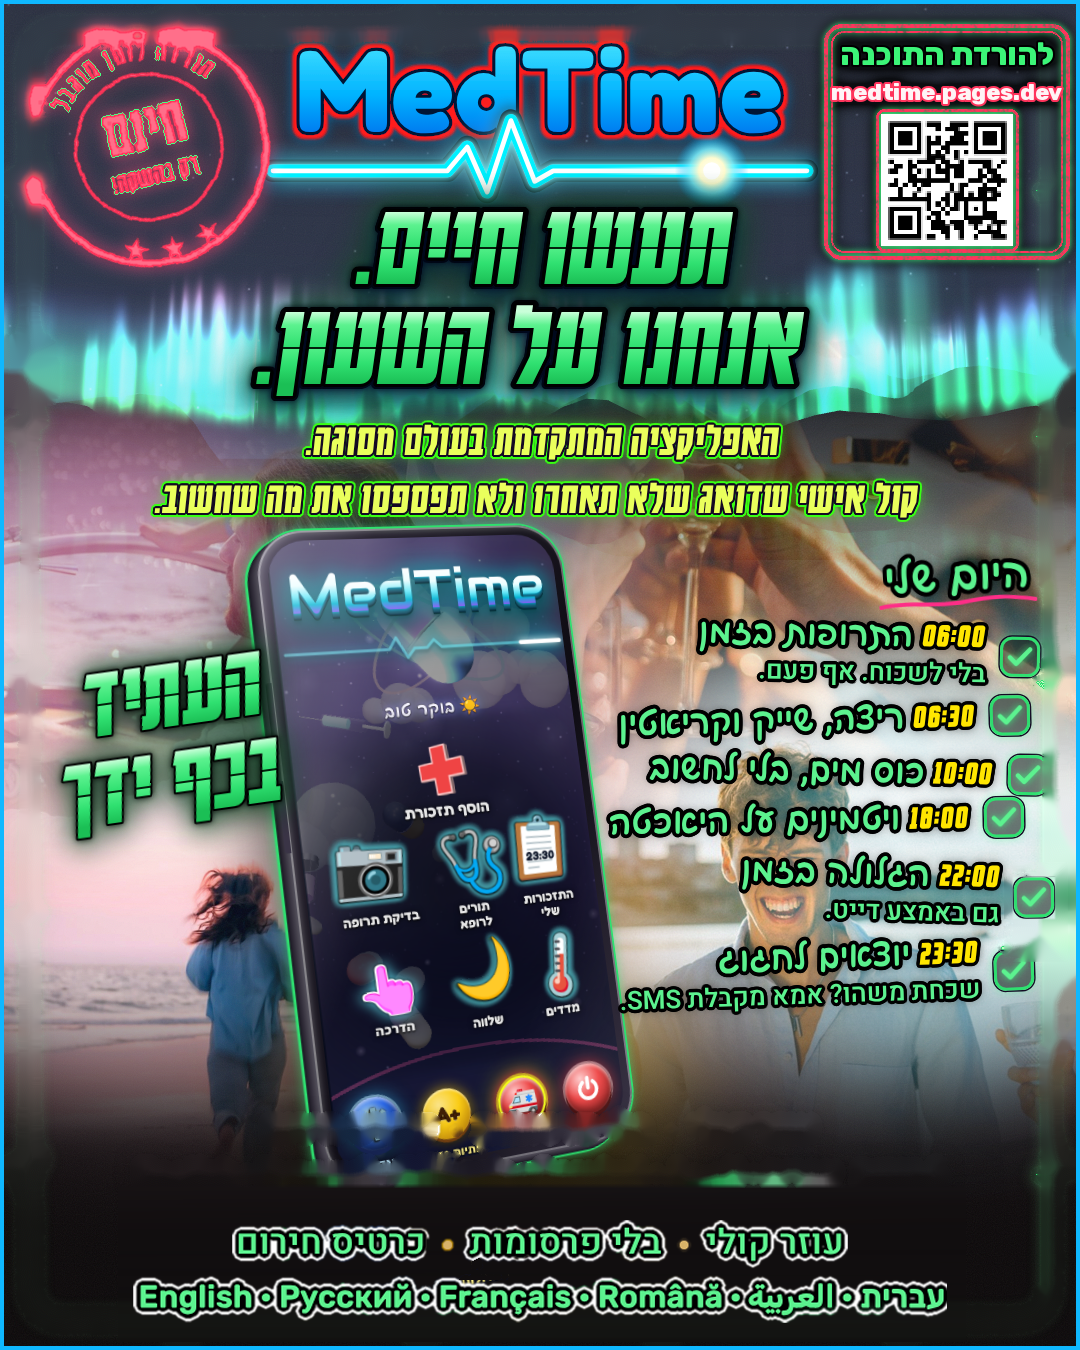
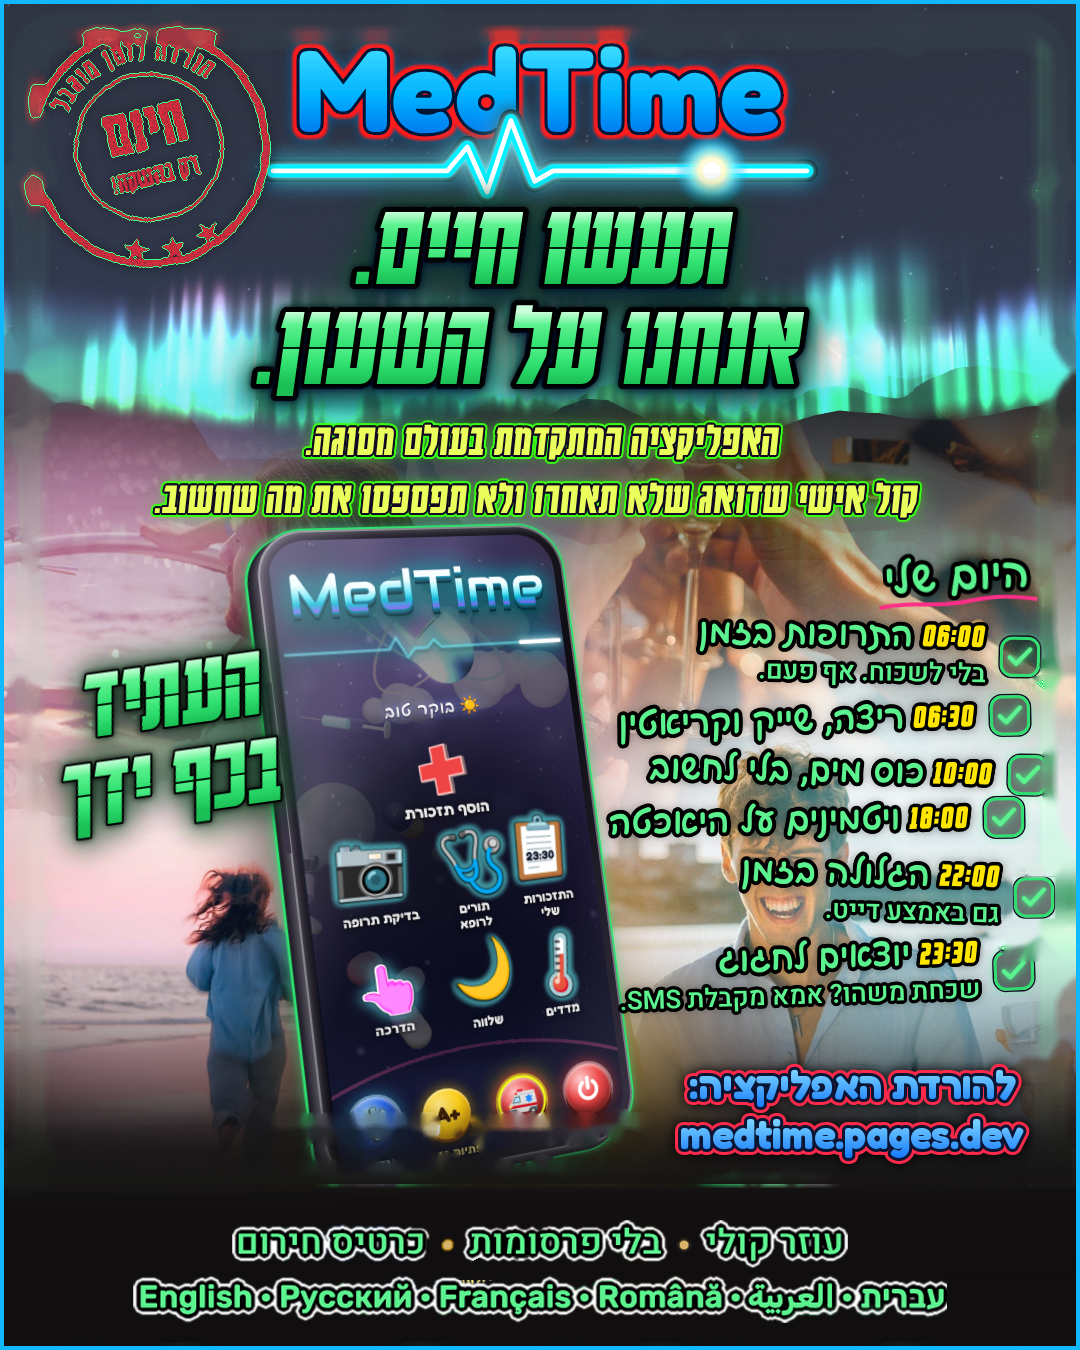
Ad round 8: bottom-right address in title style, no QR stamp, stamp outline, gradual dark fade [skip ci]
Account: main · thread 'MedTime – שיחה חדשה'

Claude-Session: https://claude.ai/code/session_01VsxPbo6X9KYMbXyBhgnXSS

diff --git a/media/ads/src/premium_fix7.py b/media/ads/src/premium_fix7.py
@@ -1,0 +1,161 @@
+# Round 8 (Roni 14:29): no download stamp; bottom-right text 'להורדת האפליקציה:' + address in the
+# title's look (rounded bold, blue, red edge), no QR; red stamp without the big glow, thin green line
+# round all its letters and shapes; the dark bottom fades in gradually.
+# Order: premium_fix6.py (round-1 image) -> this script (premium_fix7.py).
+# Round 5 (Roni 14:13): download stamp: green bold 'להורדת התוכנה', address in ONE line,
+# thin green halo; red round stamp letters get a thin green outline. Otherwise = round 3.
+# Round 3 (Roni 14:04): download stamp moves to the top-right, opposite the red stamp,
+# bigger clearer address (2 lines), no tilt; the red stamp also gets a neon glow.
+# Same as round 2 otherwise. Run on the ROUND-1 image (cdddeed), not on round 2.
+# Round 2 on media/ads/MedTime-ad-premium.png (Roni 2026-10-23 ~14:00):
+# - remove the bottom URL pill + QR, remove "6 שפות", move the language row down (more room)
+# - under the red stamp: "להורדת התוכנה" + medtime.pages.dev + the same QR, stamp style, neon
+# Run: python3 premium_fix2.py CUR.png ORIG_ddc63a0.png FONTDIR OUT.png
+import sys, numpy as np, cv2
+from scipy import ndimage as nd
+from PIL import Image, ImageDraw, ImageFont
+cur_p, orig_p, fd, out = sys.argv[1:5]
+img = np.array(Image.open(cur_p).convert('RGB')).astype(np.float32)
+org = np.array(Image.open(orig_p).convert('RGB')).astype(int)
+H, W = img.shape[:2]
+def disk(n):
+    y, x = np.ogrid[-n:n+1, -n:n+1]; return x*x + y*y <= n*n
+def over(base, col, al):
+    return base*(1-al[..., None]) + np.array(col, np.float32)*al[..., None]
+def inpaint(im, m):
+    u = np.clip(im, 0, 255).astype(np.uint8)
+    return cv2.inpaint(u, m.astype(np.uint8)*255, 7, cv2.INPAINT_TELEA).astype(np.float32)
+
+# QR image from the original (unchanged modules)
+qr = org[1194:1290, 706:802].astype(np.float32)
+
+# language row mask (same as fix1) -> letters + white ring
+a = org
+row = np.zeros((H, W), bool); row[1155:1194, 90:1000] = True
+txt = (np.abs(a - [92, 242, 143]).sum(2) < 60) & row
+tl, tn = nd.label(txt, np.ones((3, 3))); ts = nd.sum(txt, tl, range(1, tn+1))
+txt = np.isin(tl, np.nonzero(ts >= 6)[0] + 1)
+six = np.zeros((H, W), bool); six[1150:1198, 840:960] = True   # "6 שפות" (yellow)
+lang = nd.binary_dilation(txt, disk(4)); lang = nd.binary_dilation(lang, disk(3))
+dots = np.zeros((H, W), bool)
+# bullets between languages are gold dots inside the row: keep them
+gold = (np.abs(a - [205, 170, 110]).sum(2) < 90) & row & ~six
+dots = nd.binary_dilation(gold, disk(2))
+keep = (lang | dots) & ~six
+c0_ = img.astype(int)
+ok0 = (c0_.max(2) < 70) | (c0_.min(2) > 200) | (np.abs(c0_ - [92, 242, 143]).sum(2) < 120) | dots
+warm0 = ((c0_[..., 0] - c0_[..., 2]) > 30) & ~dots
+keep = keep & ~nd.binary_dilation(warm0, disk(1))      # leave out the phone's label text under the row
+ys, xs = np.nonzero(keep); bx0, bx1, by0, by1 = xs.min(), xs.max()+1, ys.min(), ys.max()+1
+rowimg = img[by0:by1, bx0:bx1].copy()
+rowal = cv2.GaussianBlur(keep[by0:by1, bx0:bx1].astype(np.float32), (3, 3), 0)
+# row 1 ("עוזר קולי • בלי פרסומות • כרטיס חירום"): same way (round 7: both rows go lower, closer)
+row1 = np.zeros((H, W), bool); row1[1108:1155, 90:1000] = True
+t1m = (np.abs(a - [92, 242, 143]).sum(2) < 60) & row1
+l1, n1 = nd.label(t1m, np.ones((3, 3))); s1 = nd.sum(t1m, l1, range(1, n1+1))
+t1m = np.isin(l1, np.nonzero(s1 >= 6)[0] + 1)
+lang1 = nd.binary_dilation(nd.binary_dilation(t1m, disk(4)), disk(3))
+gold1 = (np.abs(a - [205, 170, 110]).sum(2) < 90) & row1 & (a[..., 1] < 200)
+gold1 &= nd.binary_dilation(lang1, disk(25)) & ~nd.binary_dilation(lang1, disk(0))
+gl1, gn1 = nd.label(gold1, np.ones((3, 3)))
+dotm = np.zeros_like(gold1)
+for i, sl in enumerate(nd.find_objects(gl1)):   # bullet dots only: small and round
+    if sl is not None and (sl[0].stop - sl[0].start) <= 12 and (sl[1].stop - sl[1].start) <= 12 and (gl1[sl] == i+1).sum() >= 15:
+        dotm[sl] |= gl1[sl] == i + 1
+d1 = nd.binary_dilation(dotm, disk(2))
+keep1 = lang1 | d1
+ys, xs = np.nonzero(keep1); cx0, cx1, cy0, cy1 = xs.min(), xs.max()+1, ys.min(), ys.max()+1
+row1img = img[cy0:cy1, cx0:cx1].copy()
+ylab = (a[..., 0] > 140) & (a[..., 1] > 110) & (a[..., 2] < 110) & ~d1      # phone label text under the row: leave out
+cur_ = img.astype(int)
+okpx = (cur_.max(2) < 70) | (cur_.min(2) > 200) | (np.abs(cur_ - [92, 242, 143]).sum(2) < 120) | d1
+warm1 = ((cur_[..., 0] - cur_[..., 2]) > 30) & ~d1
+keep1 = keep1 & ~nd.binary_dilation(warm1, disk(1))
+row1al = cv2.GaussianBlur(keep1[cy0:cy1, cx0:cx1].astype(np.float32), (3, 3), 0)
+
+# frame pixels to protect
+ci = img.astype(int); g, r, b_ = ci[..., 1], ci[..., 0], ci[..., 2]
+fmk = ((g > 150) & (g - r > 40) & (g - b_ > 20)) | ((g > 235) & (r > 120) & (g - r > 30))
+lb, nl = nd.label(fmk, np.ones((3, 3)))
+frame = np.zeros((H, W), bool)   # old frame already removed by premium_fix6.py
+
+# clear 2: old language row letters + "6 שפות" (thin shapes -> inpaint)
+sixm = six & nd.binary_dilation(np.abs(a - [255, 213, 74]).sum(2) < 60, disk(8))
+clr = nd.binary_dilation(lang | dots | sixm | keep1, disk(2))
+img = inpaint(img, clr & ~frame)
+
+# clear 1: the pill/QR band -> per-row blend of the background just left/right of it
+X0, X1, Y0, Y1 = 8, 1072, 1184, 1342
+lc = img[Y0:Y1, X0-3:X0+2].mean(1); rc = img[Y0:Y1, X1-2:X1+3].mean(1)
+t = np.linspace(0, 1, X1-X0)[None, :, None]
+fill = lc[:, None]*(1-t) + rc[:, None]*t
+fill = cv2.GaussianBlur(fill, (0, 0), 2)
+fm = ~frame[Y0:Y1, X0:X1]
+ramp = np.clip((np.arange(Y1-Y0) + 1) / 5.0, 0, 1)[:, None, None]  # soft top edge
+blk = img[Y0:Y1, X0:X1]; new = blk*(1-ramp) + fill*ramp
+blk[fm] = new[fm]; img[Y0:Y1, X0:X1] = blk
+# gradual fade from the picture into the dark bottom (no hard edge)
+F0 = 1096
+wv = (np.clip((np.arange(F0, Y0) - F0) / float(Y0 - F0), 0, 1) ** 1.5)[:, None, None]
+img[F0:Y0, X0:X1] = img[F0:Y0, X0:X1]*(1 - wv) + fill[0][None]*wv
+# paste language row, bigger, centred lower
+s = 1.15
+nw, nh = int((bx1-bx0)*s), int((by1-by0)*s)
+ri = cv2.resize(rowimg, (nw, nh), interpolation=cv2.INTER_CUBIC); ra = cv2.resize(rowal, (nw, nh))
+x0 = (W - nw)//2; y0 = 1298 - nh//2
+reg = img[y0:y0+nh, x0:x0+nw]; img[y0:y0+nh, x0:x0+nw] = reg*(1-ra[..., None]) + ri*ra[..., None]
+s1_ = 1.1
+nw1, nh1 = int((cx1-cx0)*s1_), int((cy1-cy0)*s1_)
+r1i = cv2.resize(row1img, (nw1, nh1), interpolation=cv2.INTER_CUBIC); r1a = cv2.resize(row1al, (nw1, nh1))
+x1_ = (W - nw1)//2; y1_ = y0 - 4 - nh1
+reg = img[y1_:y1_+nh1, x1_:x1_+nw1]; img[y1_:y1_+nh1, x1_:x1_+nw1] = reg*(1-r1a[..., None]) + r1i*r1a[..., None]
+
+# leftover phone label specks between the two rows -> background
+ci2 = img.astype(int); zone = np.zeros((H, W), bool); zone[y1_+nh1-14:y0+6, 300:800] = True
+spec = zone & ((ci2[..., 0] - ci2[..., 2]) > 25)
+spec = nd.binary_dilation(spec, disk(2)) & zone & ~((ci2.min(2) > 170))
+img[spec] = fill[np.clip(np.nonzero(spec)[0] - Y0, 0, Y1-Y0-1), np.clip(np.nonzero(spec)[1] - X0, 0, X1-X0-1)]
+
+# ---- download text, bottom right, in the title's look (no QR) ----
+fhe = ImageFont.truetype(fd + '/fredoka-hebrew-700-normal.ttf', 40)
+fla = ImageFont.truetype(fd + '/fredoka-latin-700-normal.ttf', 40)
+tl1, tl2 = 'להורדת האפליקציה', 'medtime.pages.dev'   # the ':' comes from the Latin font (not in the Hebrew one)
+cxT, yT1, yT2 = 852, 1060, 1110
+def tmask(t, f, y, sw, rtl):
+    L = Image.new('L', (W, H), 0); dd_ = ImageDraw.Draw(L)
+    w_ = dd_.textlength(t, font=f, direction='rtl') if rtl else dd_.textlength(t, font=f)
+    kw = dict(font=f, fill=255, stroke_width=sw, stroke_fill=255)
+    if rtl: kw['direction'] = 'rtl'
+    if rtl:
+        wc = dd_.textlength(':', font=fla); x_ = cxT - (w_ + wc + 2)/2 + wc + 2
+        dd_.text((x_, y), t, **kw)
+        kw2 = dict(font=fla, fill=255, stroke_width=sw, stroke_fill=255); dd_.text((x_ - wc - 2, y), ':', **kw2)
+    else:
+        dd_.text((cxT - w_/2, y), t, **kw)
+    return np.array(L).astype(np.float32)/255
+lines_ = [(tl1, fhe, yT1, True), (tl2, fla, yT2, False)]
+red_o = np.maximum.reduce([tmask(*l_[:3], 6, l_[3]) for l_ in lines_])
+dark_o = np.maximum.reduce([tmask(*l_[:3], 3, l_[3]) for l_ in lines_])
+body = np.maximum.reduce([tmask(*l_[:3], 0, l_[3]) for l_ in lines_])
+img = img*(1 - 0.5*np.clip(cv2.GaussianBlur(red_o, (0, 0), 6)*2, 0, 1))[..., None]   # soft shadow
+img = over(img, (255, 42, 74), red_o)
+img = over(img, (10, 22, 52), dark_o)
+grad = np.zeros((H, W, 3), np.float32)
+for y_ in range(H):
+    for (yy_, h_) in ((yT1, 48), (yT2, 48)):
+        if yy_ <= y_ < yy_ + h_:
+            t_ = (y_ - yy_) / h_
+            grad[y_] = np.array([150, 236, 255])*(1-t_) + np.array([20, 120, 255])*t_ if t_ < 1 else 0
+img = img*(1 - body[..., None]) + grad*body[..., None]
+
+# ---- red stamp: no glow; a thin green line round all its letters and shapes ----
+st = np.zeros((H, W), bool); st[10:285, 15:290] = True
+ci = np.clip(img, 0, 255).astype(int)
+red = st & (ci[..., 0] > 140) & (ci[..., 0] - ci[..., 1] > 70) & (ci[..., 0] - ci[..., 2] > 50)
+shape = nd.binary_closing(red, disk(1))
+ol = nd.binary_dilation(shape, disk(1)) & ~shape
+img = over(img, (70, 255, 130), ol.astype(np.float32))
+im_ = Image.fromarray(np.clip(img, 0, 255).astype(np.uint8))
+ImageDraw.Draw(im_).rectangle((0, 0, W-1, H-1), outline=(15, 184, 255), width=4)   # blue edge frame
+im_.save(out)
+print('ok', x0, y0, nw, nh)

diff --git a/media/ads/src/premium_fix6.py b/media/ads/src/premium_fix6.py
@@ -18,6 +18,7 @@ yy, xx = np.mgrid[0:H, 0:W]
 band = (xx < 56) | (xx > 1040) | (yy < 52) | (yy > 1284)   # frame only
 boxes = (xx > 980) & (xx < 1048) & (yy > 585) & (yy < 1045)   # keep the check boxes
 band &= ~boxes
+band |= (xx > 1012) & (yy > 1045)   # lower right: old frame glow column
 frame &= band
 # the old line + its soft green glow around it
 near = nd.binary_dilation(frame, disk(9))

diff --git a/handoff/SYNC-LOG.md b/handoff/SYNC-LOG.md
@@ -3,6 +3,11 @@
 כל שינוי נרשם כאן עם חתימה: מתי, איזה חשבון/שיחה, מה בדיוק, אילו קבצים, ואיך להחזיר אחורה.
 החדש ביותר למעלה. להחזרה: `git revert <commit>` או לקחת את הקובץ מה-commit הקודם.
 
+## 2026-10-23 ~14:45 · חשבון ראשי · שיחה "📌 MedTime – שיחה חדשה" (session_01VsxPbo6X9KYMbXyBhgnXSS)
+- מה: מודעת הפרימיום, סבב 8: חותמת ההורדה בוטלה (בלי ברקוד). למטה מימין: "להורדת האפליקציה:" + medtime.pages.dev בפונט מעוגל עבה (Fredoka 700) כחול עם קו אדום כמו הכותרת. החותמת העגולה בלי ההילה, עם קו ירוק דקיק סביב כל האותיות והצורות. החלק השחור למטה נכנס בהדרגה (מעבר רך מ-y=1096 עד 1184). הוסרה גם שארית הילה ירוקה בצד ימין למטה.
+- קבצים: media/ads/MedTime-ad-premium.png, media/ads/src/premium_fix7.py (מחליף את fix5), premium_fix6.py. סדר: fix6 (cdddeed.png, out, ddc63a0.png) ואז fix7 (out, ddc63a0.png, fonts, final). גופנים: Fredoka/Rubik מ-app/src/main/assets/fonts הומרו ל-ttf.
+- להחזרה: התמונה מ-fd08a47.
+
 ## 2026-10-23 ~14:35 · חשבון ראשי · שיחה "📌 MedTime – שיחה חדשה" (session_01VsxPbo6X9KYMbXyBhgnXSS)
 - מה: מודעת הפרימיום, סבבים 5-7 (נבנית מתמונת סבב 1 cdddeed + המקור ddc63a0):
   1. premium_fix6.py: מסגרת הניאון הישנה נמחקה כולה (כולל ההילה), תיבת 22:00 שוחזרה, מסגרת כחולה #0fb8ff ברוחב 4px צמודה לקצה החיצוני.
